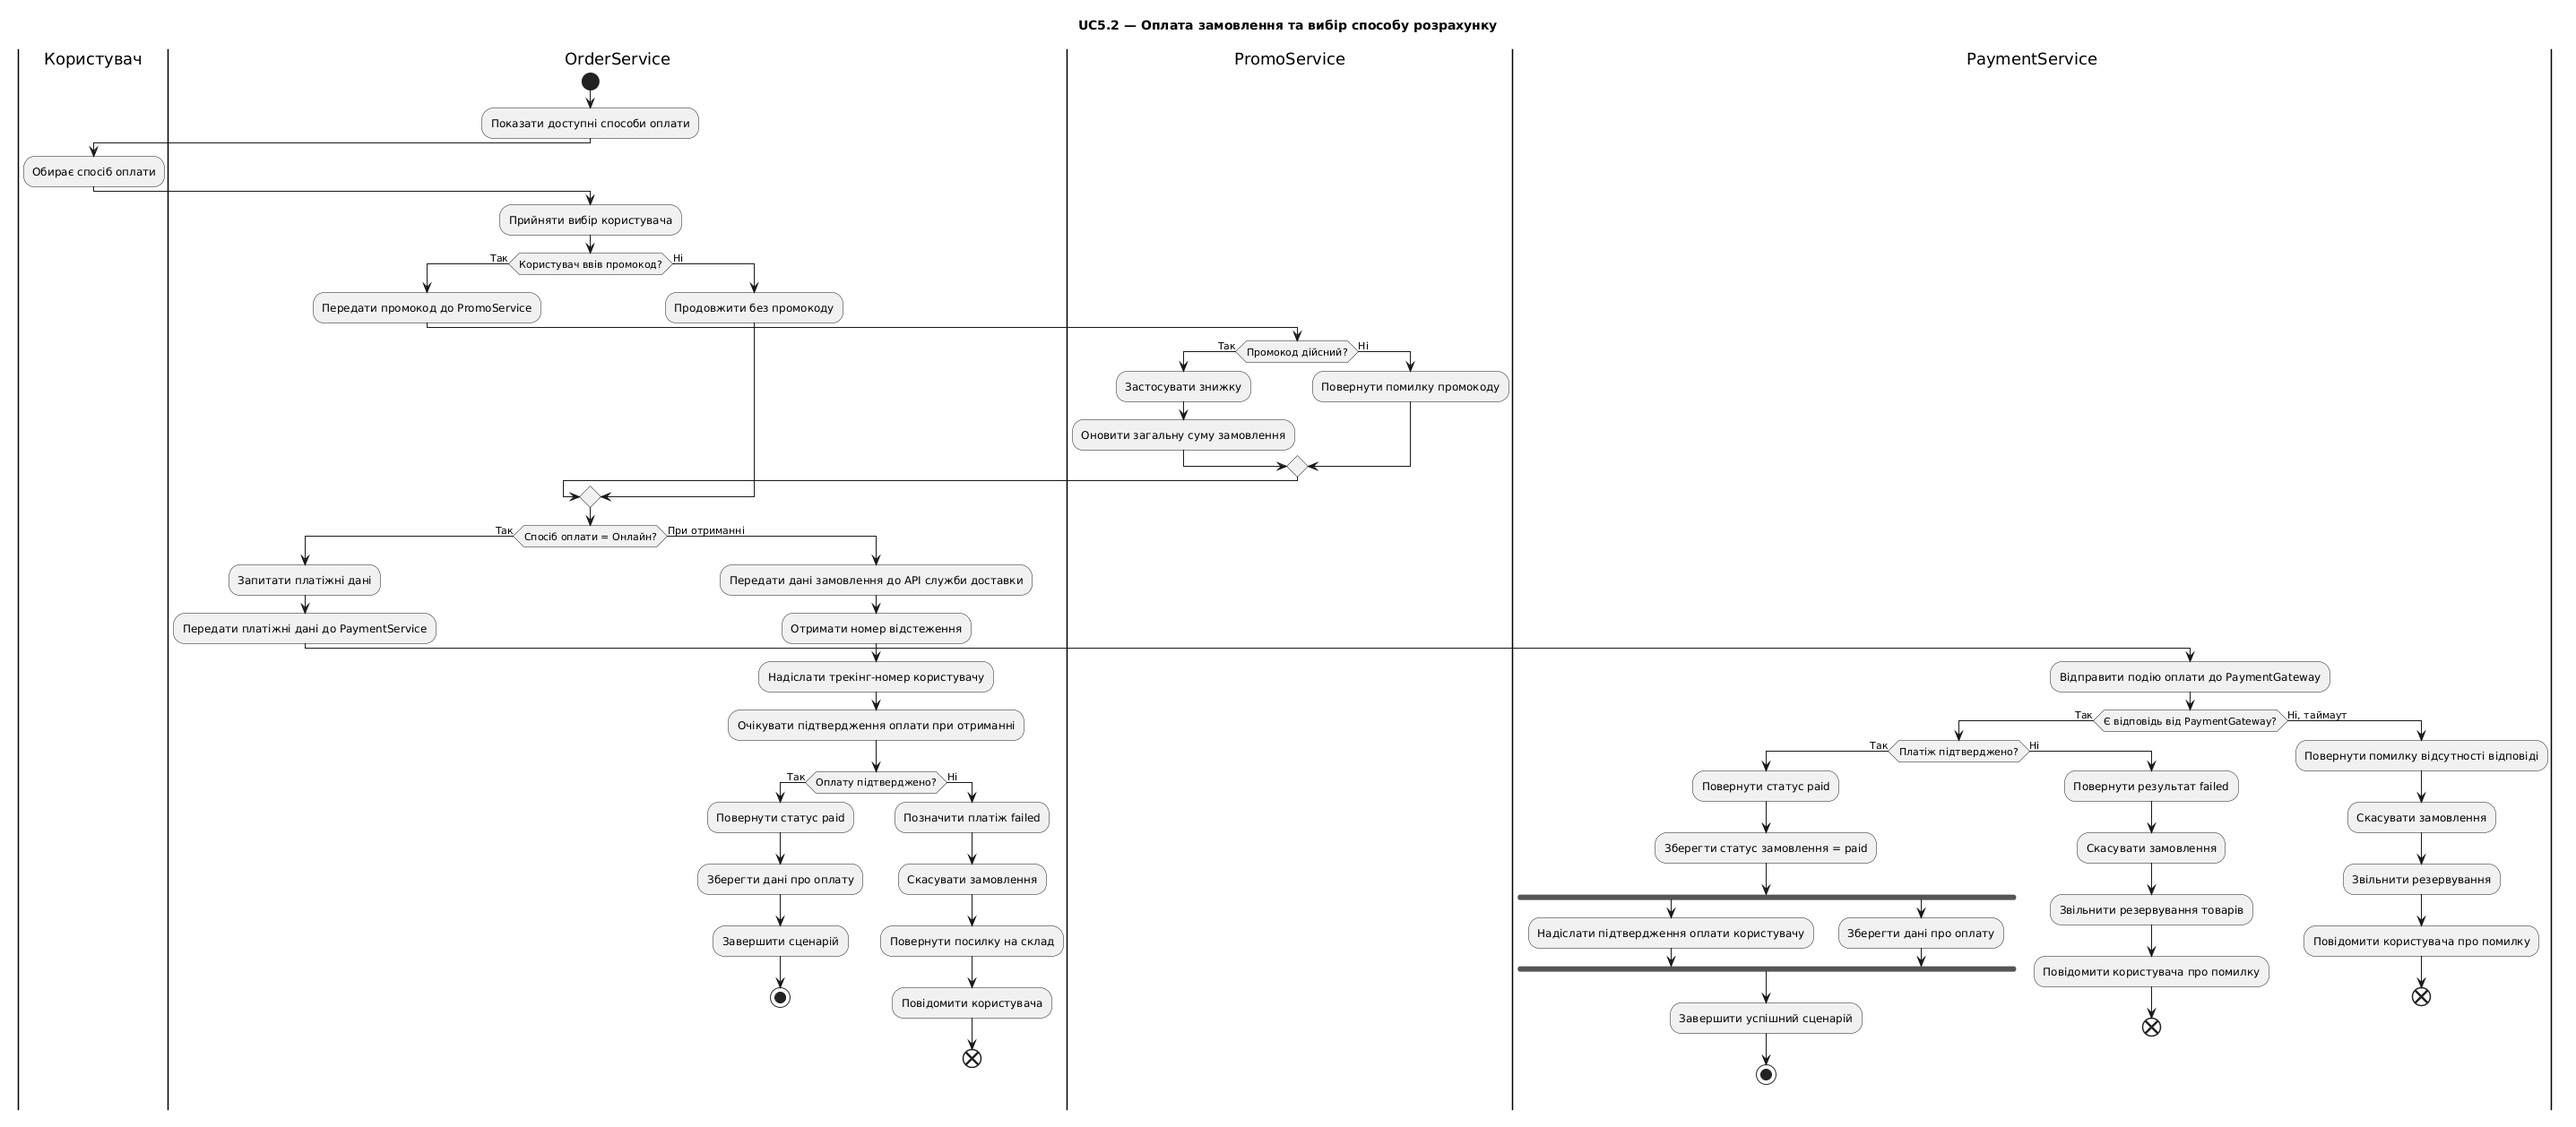
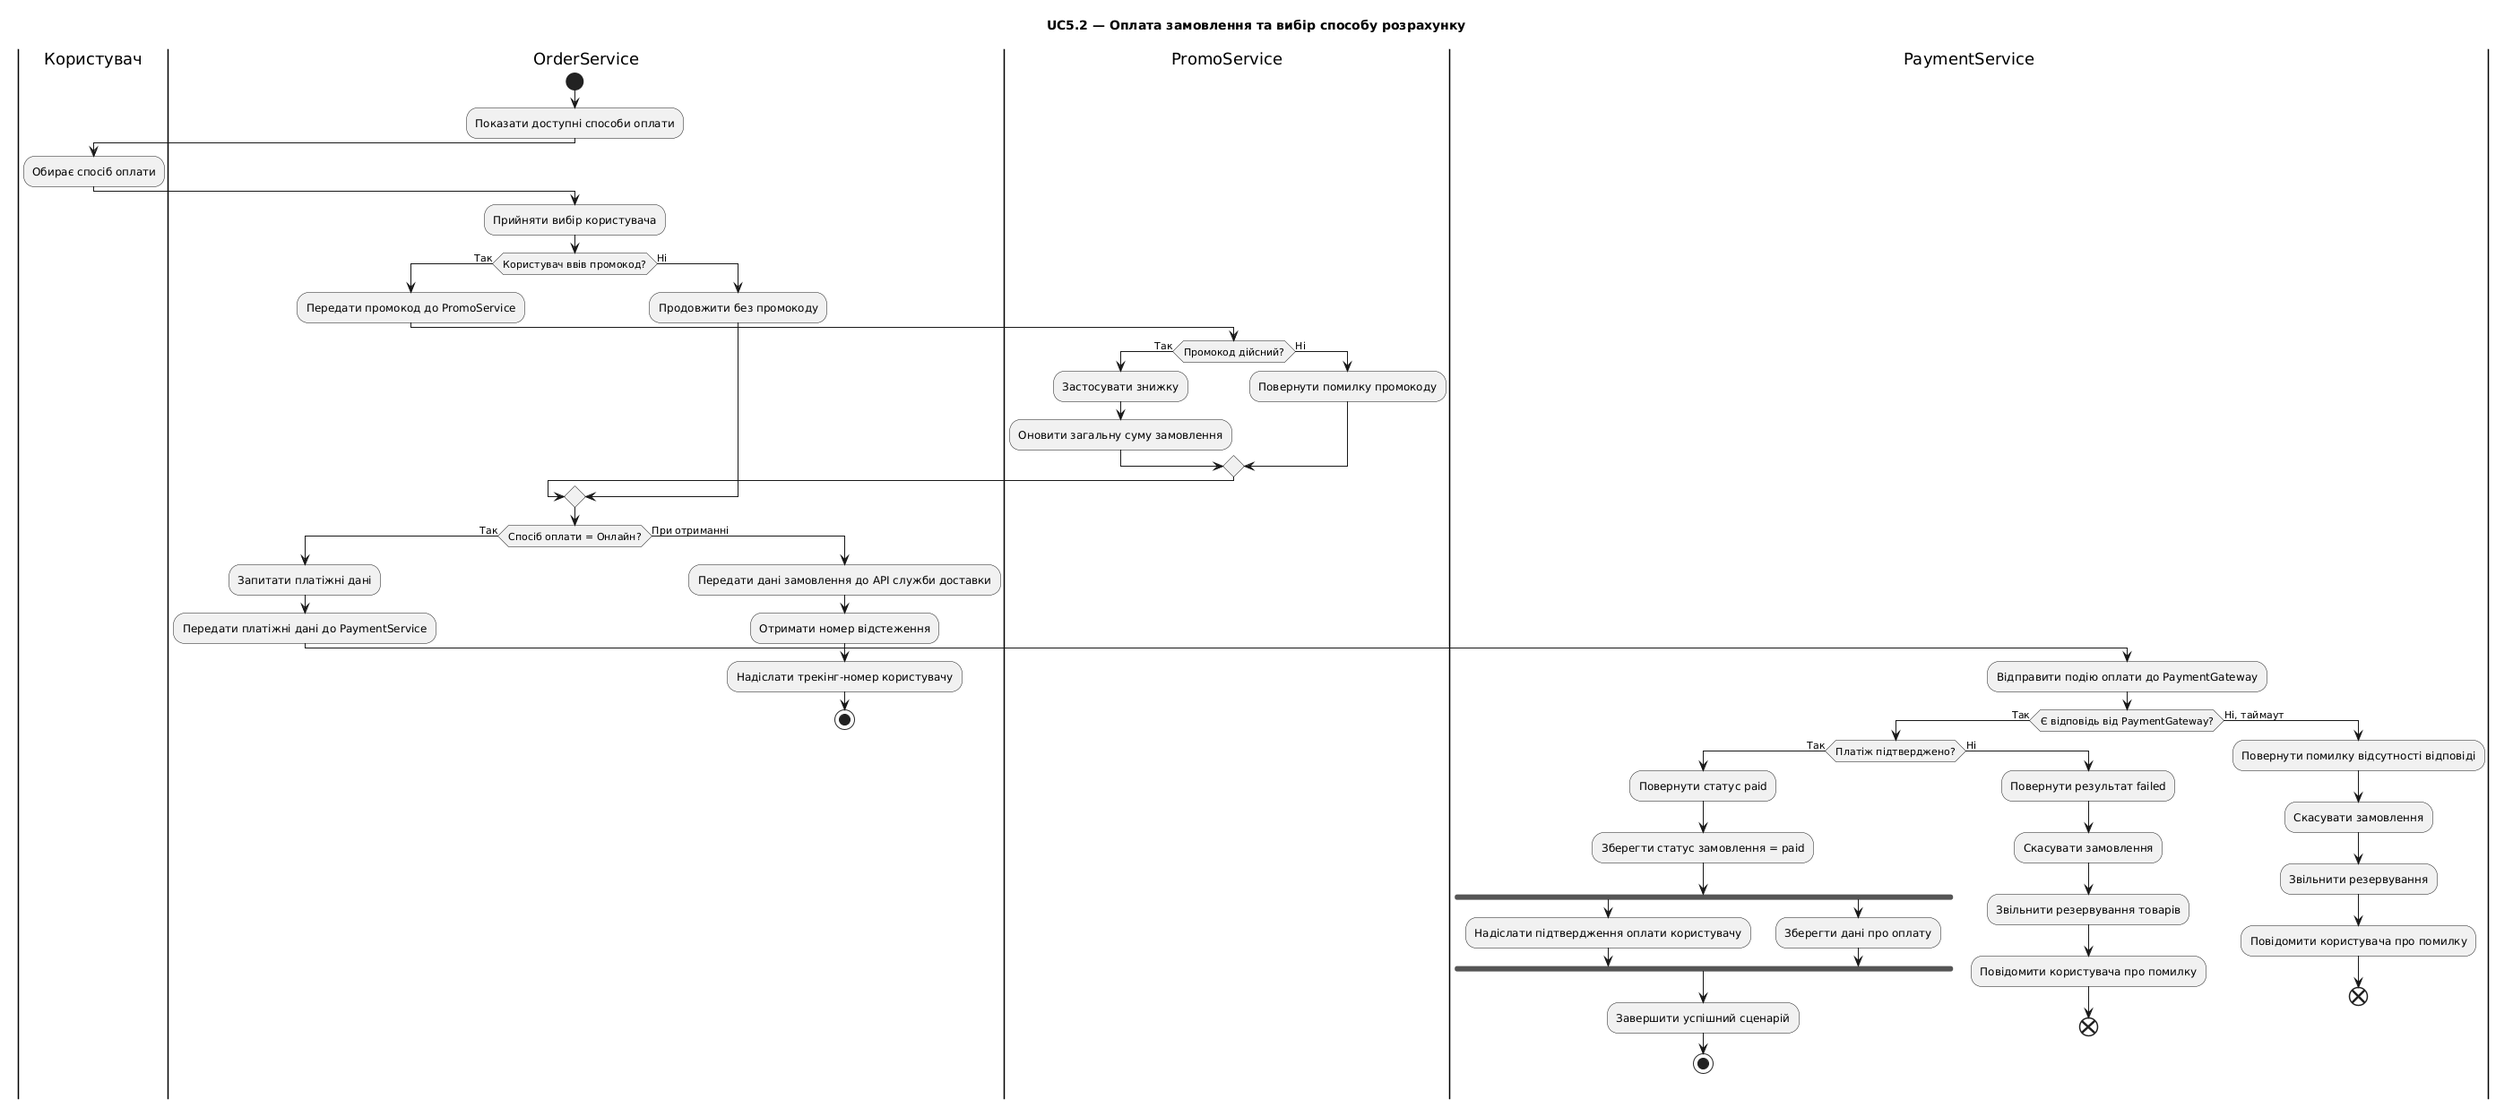
Видалив кроки, стосовно отримання відповіді від поштової служби які відбуваються з розривом в часі і фактично є окремим процесом

diff --git a/lab4/decisions/0002_payment_on_delivery.md b/lab4/decisions/0002_payment_on_delivery.md
@@ -1,0 +1,24 @@
+# Очікування оплати при отриманні
+
+## Context and Problem Statement
+Діагарама моделює сесію клієнта на сайті, при цьому описується очікування підтвердження оплати при отриманні. Користувач не тримає сайт відкритим увесь час поки не оплатить посилку.  
+
+## Considered Options
+* Прибрати опис отримання відповіді.
+* Залишити опис отримання відповіді.
+
+## Pros and Cons of the Options
+
+### Процес завершується на наданні користувачеві даних про посилку
+* +, Отримання відповіді від поштовою служби це вже окермий процес.
+* +, Спрощує діаграму, прибириє дії, які відбудуться аж через декілька днів.
+* -, Суперечить минулій sequence-діаграмі.
+
+### Перегенрувати діаграму 
+* +, Повторює sequence-діаграму.
+* +, Показує більше кроків бізнес-процесу.
+* -, Кількаденне очікування шкодить цілісності сесії.
+
+
+## Decision Outcome
+Було вирішено прибрати опис отримання відповіді, тому що це вже фактично окремий процес, який відбувається через декілька днів навіть без участі користувача. Система просто повинна отримати відповідь від поштової служби. Sequnce-діаграму також варто виправити.

diff --git a/lab3/payment.md b/lab3/payment.md
@@ -73,40 +73,5 @@ else Оплата при отриманні
 end
 
 deactivate OrderService
-
-opt Оплата при отриманні завершена
-    ... Кілька днів потому ...
-    Payment -> OrderService : paymentResult(orderId, success/failed)
-    activate OrderService
-
-    alt Оплату при отриманні підтверджено
-        OrderService -> Database : updatePaymentStatus(orderId, paid)
-        activate Database
-        Database --> OrderService : paymentStatusUpdated
-        OrderService -> Database : updateOrderStatus(orderId, Paid)
-        Database --> OrderService : orderStatusUpdated
-        deactivate Database
-        OrderService --> User : paymentConfirmed(orderId)
-    else Оплату при отриманні не підтверджено
-        OrderService -> Database : updatePaymentStatus(orderId, failed)
-        activate Database
-        Database --> OrderService : paymentStatusUpdated
-        OrderService -> Database : cancelOrder(orderId)
-        Database --> OrderService : orderCancelled
-        deactivate Database
-        OrderService --> User : paymentFailed(orderId, orderCancelled)
-
-        OrderService -> Delivery : returnShipment(orderId, trackingNumber)
-        activate Delivery
-        Delivery --> OrderService : shipmentReturned
-        deactivate Delivery
-        OrderService -> StorageService : releaseReservation(orderId)
-        activate StorageService
-        StorageService --> OrderService : reservationReleased
-        deactivate StorageService
-    end
-
-    deactivate OrderService
-end
 @enduml
 ![alt text](payment_sequence.png)

diff --git a/lab3/spec.md b/lab3/spec.md
@@ -35,6 +35,3 @@
 * Якщо платіж підтверджено, OrderService зберігає статус оплати paid, змінює статус замовлення на paid і надсилає користувачеві підтвердження.
 * Якщо платіж не підтверджено, OrderService зберігає статус оплати failed, скасовує замовлення, звільняє резервування товару та повідомляє користувачеві про невдалу оплату.
 5. Якщо обрано оплату при отриманні, OrderService передає дані замовлення до API служби доставки. Після створення посилки сервіс отримує номер відстеження й надсилає його користувачеві.
-6. Після отримання оплати при доставці платіжний сервіс повідомляє OrderService про результат.
-   * Якщо оплату підтверджено, OrderService оновлює статус оплати на paid і статус замовлення на paid.
-   * Якщо оплату не підтверджено, OrderService позначає платіж як failed, скасовує замовлення, повідомляє користувача, запитує повернення посилки у служби доставки та скасовує резервування.

diff --git a/lab4/spec.md b/lab4/spec.md
@@ -35,5 +35,5 @@ Activity Diagram є офіційною частиною стандарту UML, 
 * Якщо він дійсний загальна сума замовлення зменшується.
 * Якщо ні, виводиться помилка.
 8. Якщо користовач, як спосіб оплати обрав оплату онлайн, то сервіс оплати відправляє подію оплати до PaymentGataway, якщо оплата успішна, то PaymentService повідомлює про успіх та паралельно збергіає дані про оплату.
-9. Якщо користувач обирає оплату при отриманні, то сервіс передає повідомлення до API поштової служби, потім передає трекінгові дані користувачеві, якщо користувач оплачує і забирає замовлення, то PaymentService зберігає данні про це, якщо ні таври повертаються на склад і зберігається інформація про невдачу
+9. Якщо користувач обирає оплату при отриманні, то сервіс передає повідомлення до API поштової служби, потім передає трекінгові дані користувачеві.
 

diff --git a/lab4/payment_activity.md b/lab4/payment_activity.md
@@ -65,19 +65,7 @@ else (При отриманні)
     :Передати дані замовлення до API служби доставки;
     :Отримати номер відстеження;
     :Надіслати трекінг-номер користувачу;
-    :Очікувати підтвердження оплати при отриманні;
-    if (Оплату підтверджено?) then (Так)
-        :Повернути статус paid;
-        :Зберегти дані про оплату;
-        :Завершити сценарій;
-        stop
-    else (Ні)
-        :Позначити платіж failed;
-        :Скасувати замовлення;
-        :Повернути посилку на склад;
-        :Повідомити користувача;
-        end
-    endif
+    stop
 endif
 
 @enduml
